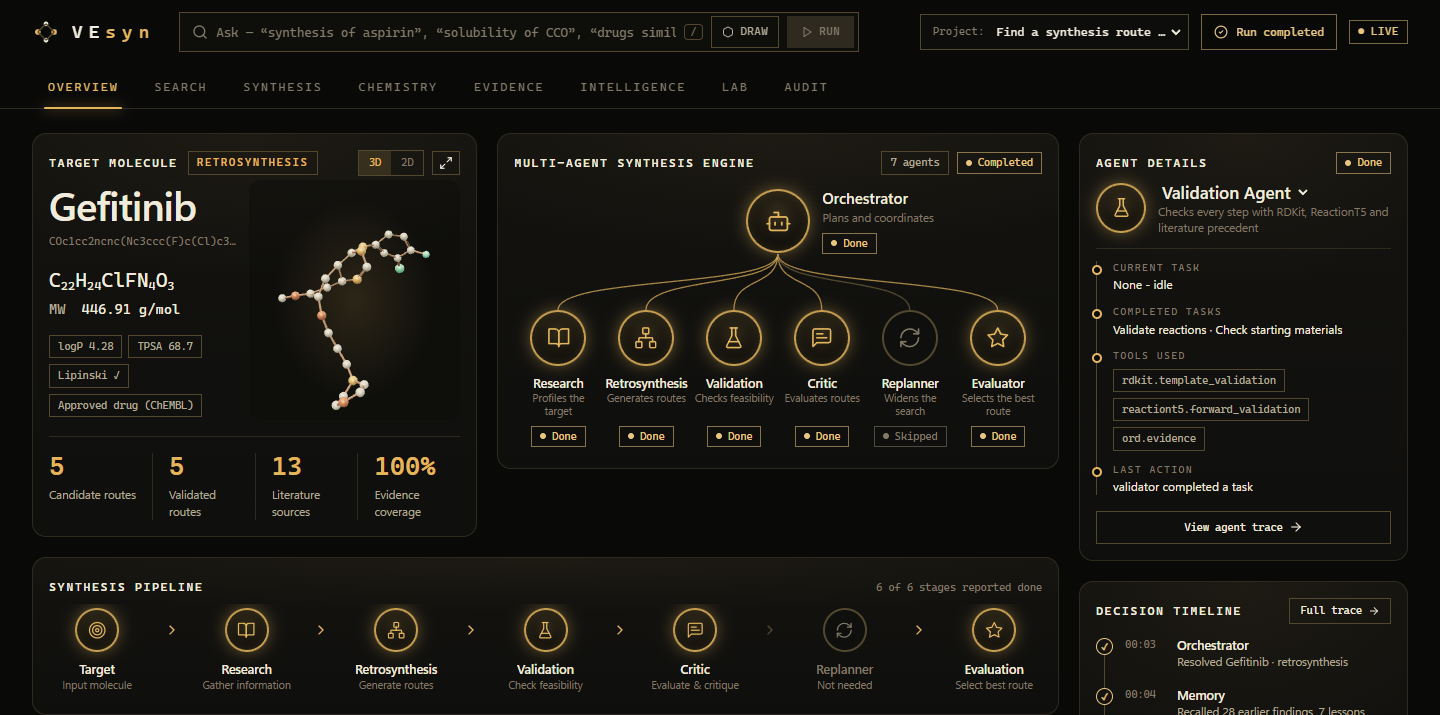
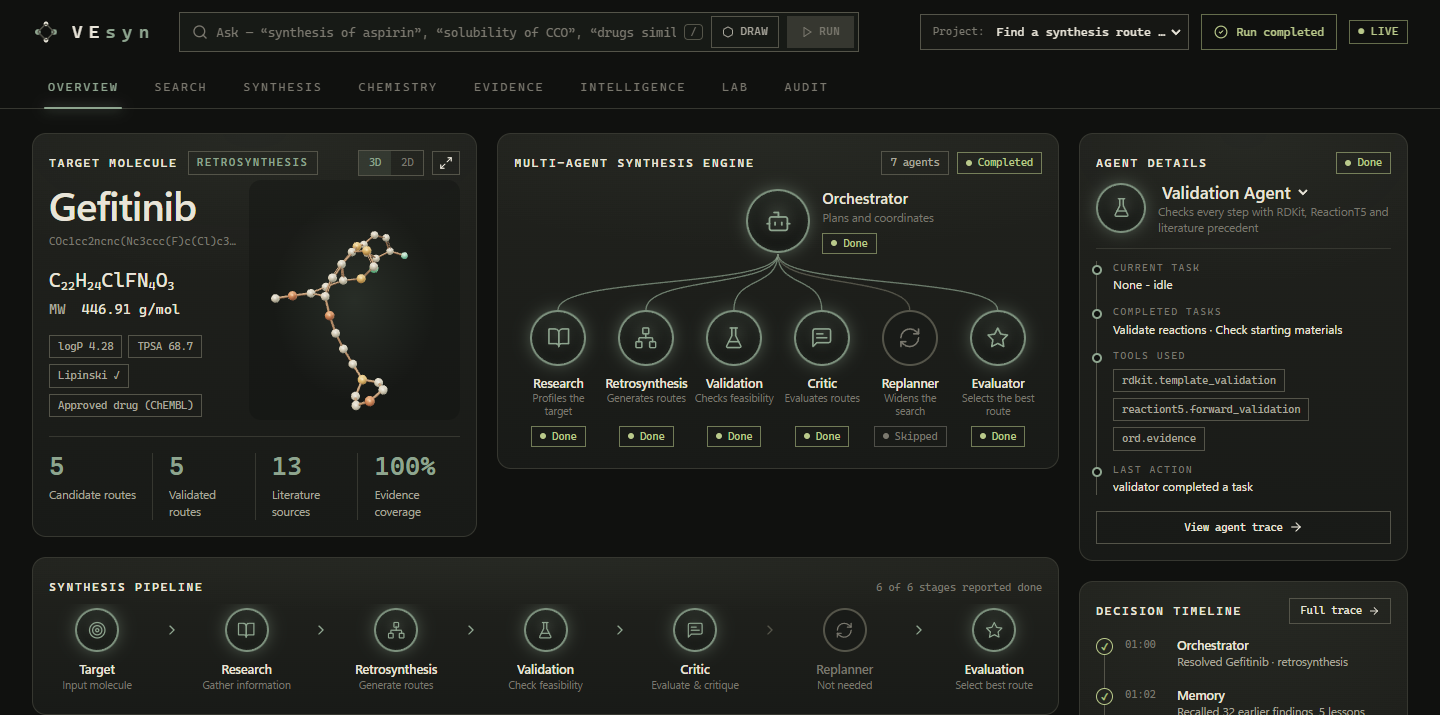
README: the before/after pair, in the current theme
The memory section showed only the "after" state, and its screenshot was taken
before the dashboard's accent changed, so it no longer matched the product.
Both halves are now captured from live runs on the current theme:

  before  seed --reset --phase before, then ask for gefitinib: 21 recalled,
          4 lessons (all real ReactionT5 disagreements from erlotinib), the
          coupling route recommended at 0.79, nothing marked simulated
  after   seed --phase after adds the lab report, the same question: 32
          recalled, 5 lessons, the coupling route down to 0.64 carrying
          "Reuses a transformation flagged in an earlier investigation
          [SIMULATED]", and a route that avoids it recommended at 0.76

Both crops are the same box, so the pair reads as one comparison, and the
table beside them states what each screenshot shows rather than a remembered
count. The overview screenshot is re-cut from the same capture.

docs/FRONTEND.md no longer calls the dashboard's theme gold: it shares Vesyn's
palette and sets only its accent.

.env.example: qwen/qwen3.8-27b is not usable for extraction - it rejects the
output token limit Hindsight asks for. Found the hard way when both gpt-oss
models' daily quotas ran out; local Ollama seeded the last memory instead.

diff --git a/README.md b/README.md
@@ -58,13 +58,22 @@ learns that one transformation failed on scale-up:
 
 | | Before | After |
 |---|---|---|
-| Recommended | a 3-step route that couples the aniline onto the quinazolinone · **0.79** | a 3-step route that avoids that coupling · **0.76** |
+| Recommended | the 3-step route that couples the aniline onto the quinazolinone · **0.79** | a 3-step route that avoids that coupling · **0.76** |
 | The route that led before | — | ranked down to **0.64**: *"flagged in 1 earlier investigation(s) (simulated demo record): … at 120 g the isolated yield fell from 68% to 31% with bis-arylated impurity as the main by-product"* |
-| Also applied | two transformations ReactionT5 disputed while investigating **erlotinib**, a related EGFR inhibitor, rank two other gefitinib routes down | the same |
+| Lessons | 4, all real — transformations ReactionT5 disputed while investigating **erlotinib**, a related EGFR inhibitor. They rank a candidate down, but not the leader | 5 — the same four, plus the lab report, which does hit the leader |
 
-<p align="center">
-  <img src="docs/images/memory.png" alt="After the lab report: route 2 recommended; route 1 marked as reusing a transformation flagged in an earlier investigation, labelled simulated; the memory card lists routes 1 and 4 ranked down by the simulated lab record and routes 0 and 3 by a real ReactionT5 disagreement" width="100%">
-</p>
+<table>
+<tr>
+<td width="50%">
+  <img src="docs/images/memory-before.png" alt="Before the lab report: the coupling route recommended at 0.79, no simulated badge, and the memory card showing 21 recalled and 4 lessons, all from real ReactionT5 disagreements" width="100%">
+  <p align="center"><b>Before</b> — 21 recalled, 4 lessons, all real. The coupling route leads at <b>0.79</b>.</p>
+</td>
+<td width="50%">
+  <img src="docs/images/memory.png" alt="After the lab report: another route recommended; the coupling route marked as reusing a transformation flagged in an earlier investigation, labelled simulated; the memory card lists it and a sibling ranked down by the simulated lab record, and two more by a real ReactionT5 disagreement" width="100%">
+  <p align="center"><b>After</b> — one memory later. The coupling route is <b>0.64</b>, marked <b>SIMULATED</b>, and a route that avoids it leads.</p>
+</td>
+</tr>
+</table>
 
 The routes, templates, scores and the erlotinib disagreements are real pipeline output. The scale-up failure is
 invented for the demo — see below.

diff --git a/docs/FRONTEND.md b/docs/FRONTEND.md
@@ -117,7 +117,7 @@ The product has four modes, and each is its own page: `/` is the cinematic entry
 
 `lib/dashboard/model.ts` is one pure function, `buildDashboard`, of the folded events, the evaluator's package, the agent views and the service probes; `lib/dashboard/overview.ts` reads the evaluator's package for the overview's panels (route cards, why this route, timeline, agent details, key evidence). Components only render them, so nothing on the page can be invented in the view layer (`tests/dashboard.test.ts`, and `tests/overview.test.ts`, which checks the panels against the recorded runs in `demo/runs/`). A value the run does not support is `null` and reads NOT REPORTED or "—"; a zero is only ever a real zero.
 
-The overview wears a gold theme set as a scope (`.nc-dash` in `styles/app.css`) by the dashboard frame, so the lab keeps its own palette. The tabs come from one list, `lib/nav.ts`, shared with the lab's top bar.
+The overview and search share Vesyn's palette — the same graphite surfaces, type and status colours as the lab — and set only their own accent, as a scope (`.nc-dash` in `styles/app.css`) applied by the dashboard frame. The tabs come from one list, `lib/nav.ts`, shared with the lab's top bar.
 
 | Panel | Source (all real) |
 | --- | --- |
